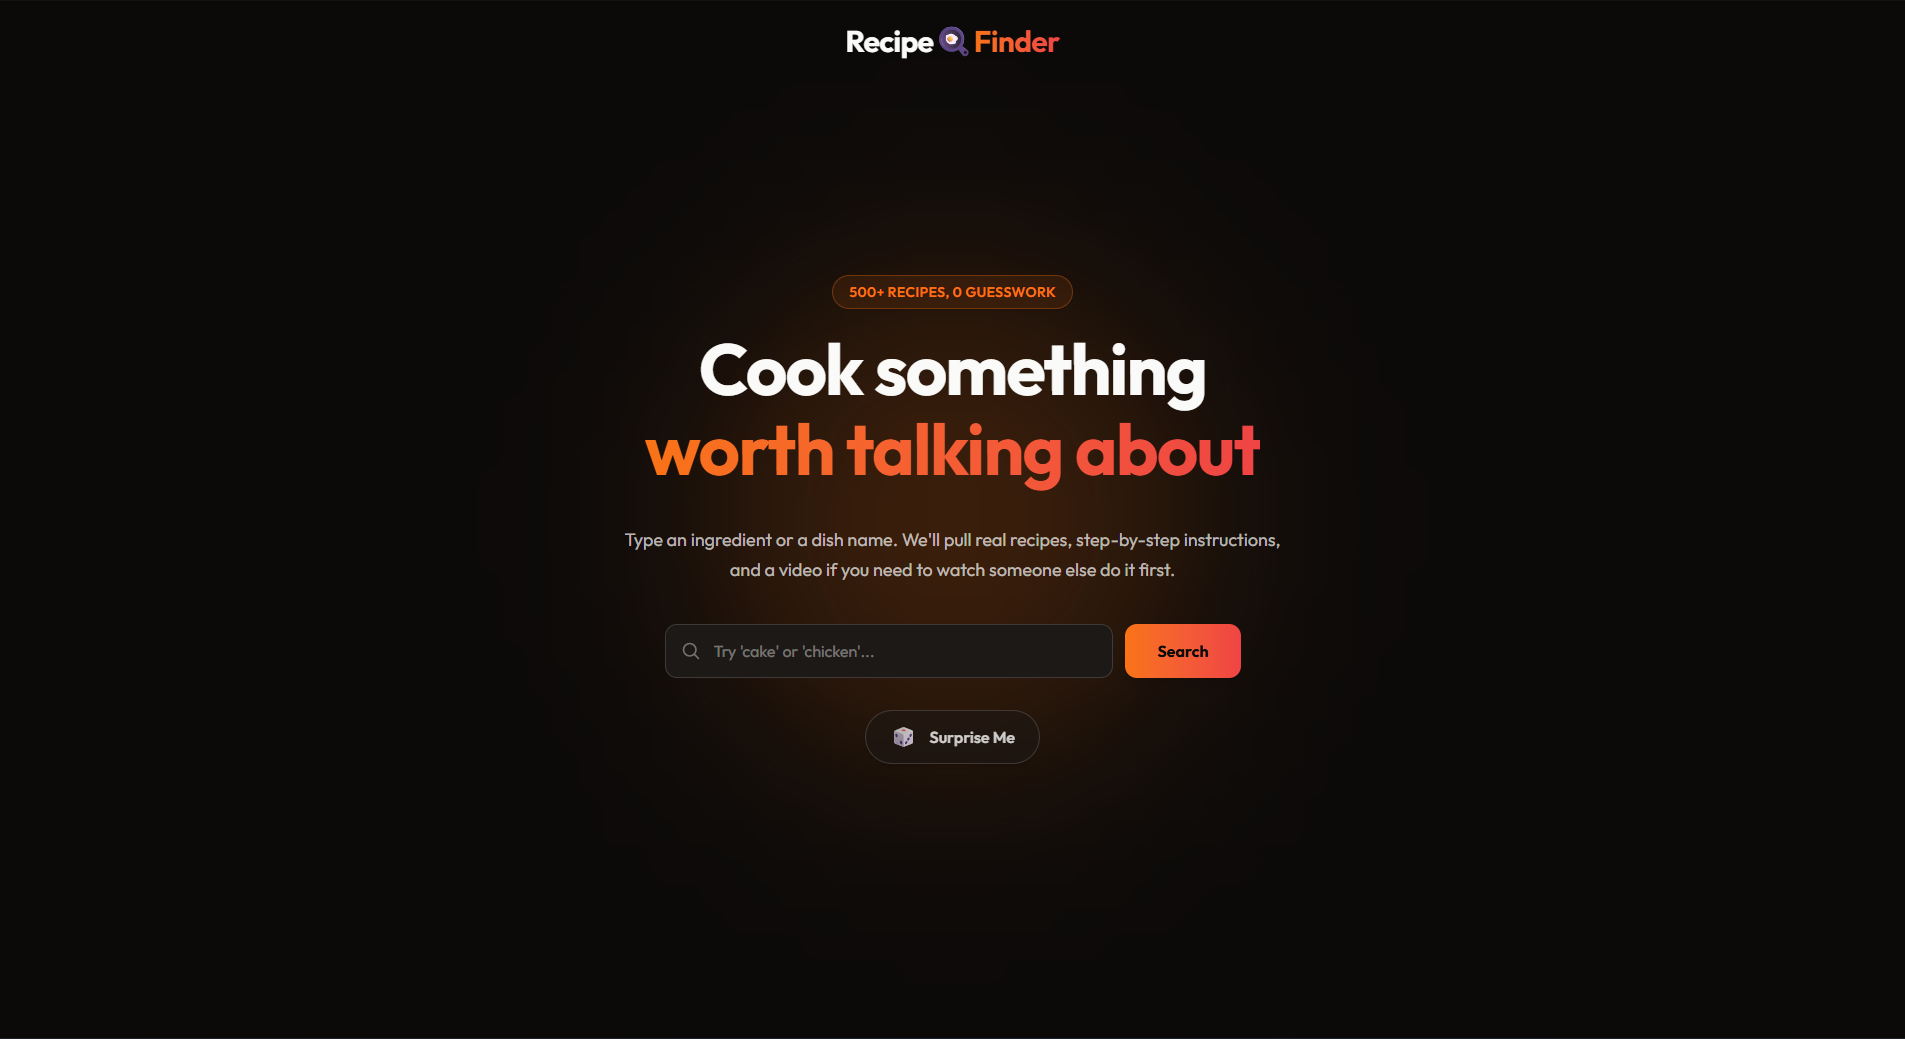
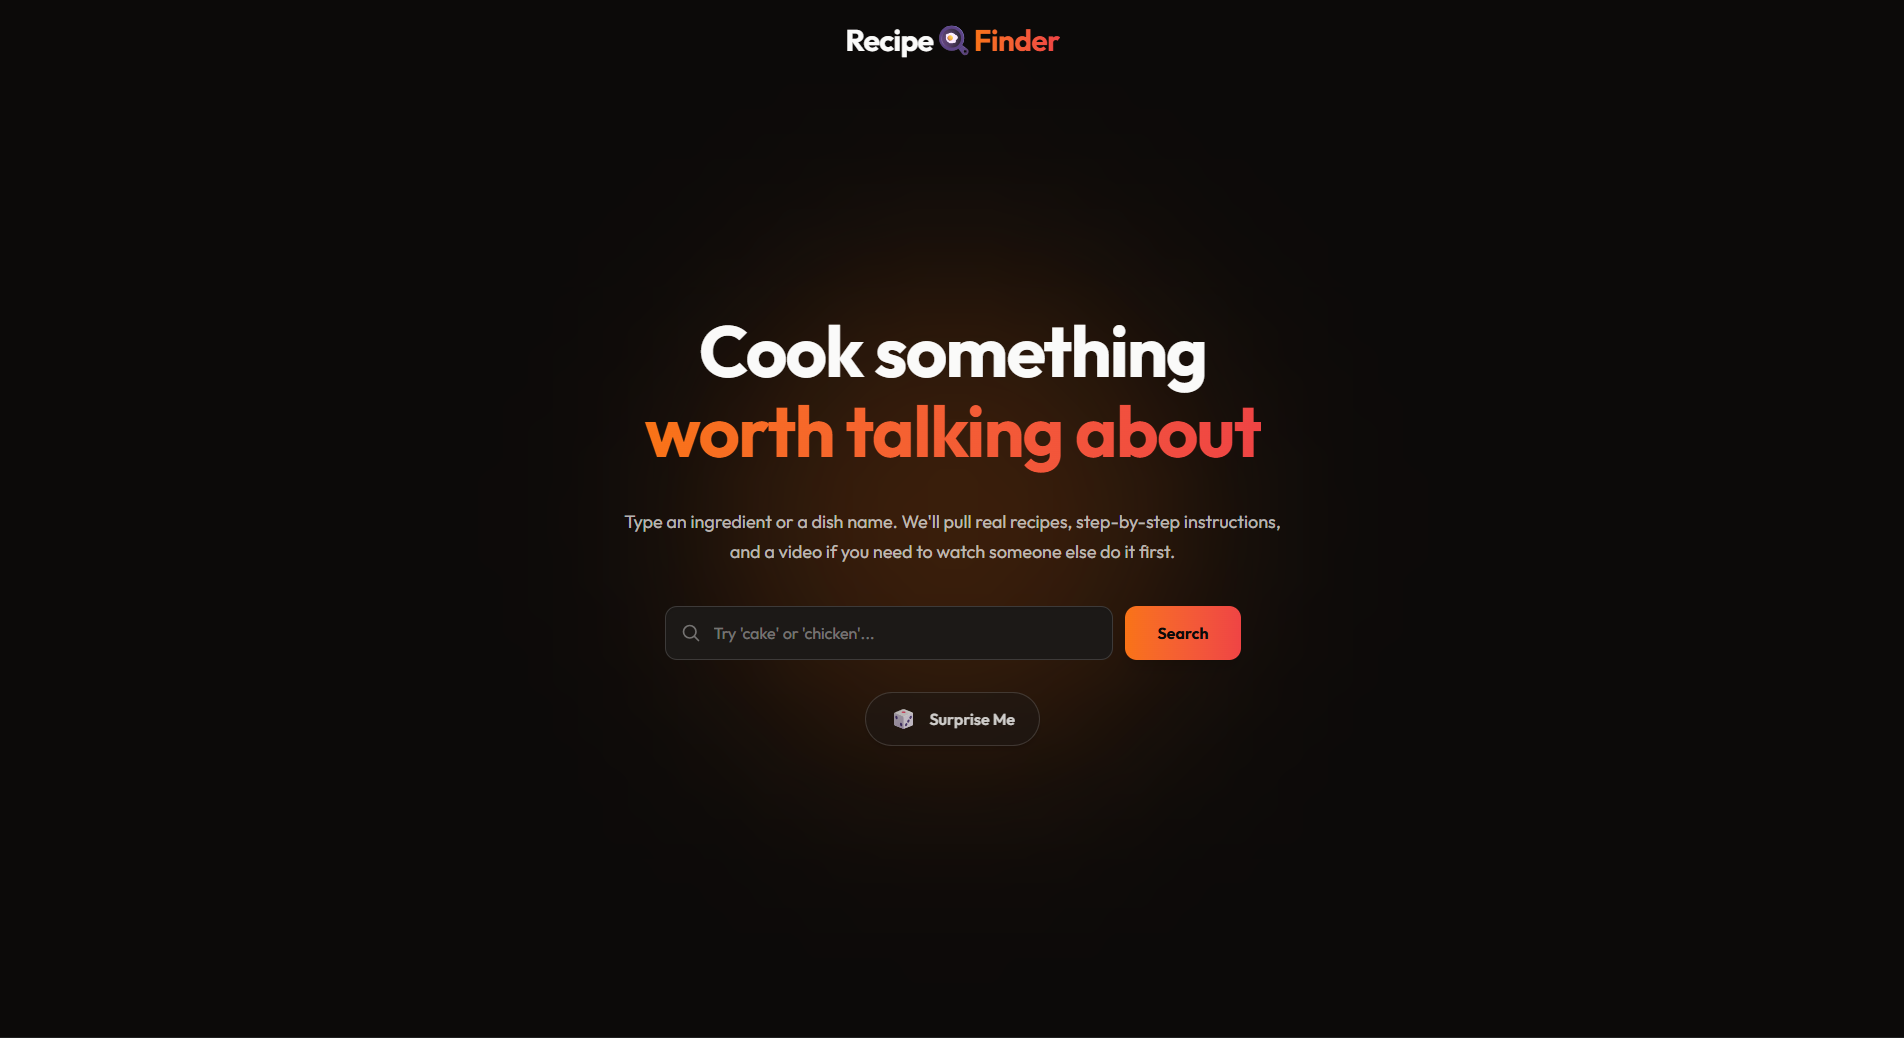
feat(projects): update project assets and refine live link labels
- Update screenshot and add demo video for Recipe Finder
- Shorten link labels from "Live Demo" to "Live"
- Fix minor JSX self-closing tag formatting in ProjectsPage

diff --git a/src/data/siteContent.js b/src/data/siteContent.js
@@ -139,7 +139,7 @@ export const projects = [
     screenshot: "/aicodereviewer.png",
     links: [
       {
-        label: "Live Demo",
+        label: "Live",
         href: "https://ai-code-reviewer-ecru-xi.vercel.app/",
       },
       {
@@ -157,9 +157,10 @@ export const projects = [
     tags: ["React.js", "Tailwind CSS"],
     spotlight: "Live",
     screenshot: "/recipefinder.png",
+    video: "/public/recipefinder-demovideo.mp4",
     links: [
       {
-        label: "Live Demo",
+        label: "Live",
         href: "https://recipe-finder-seven-opal.vercel.app/",
       },
       {

diff --git a/src/pages/ProjectsPage.jsx b/src/pages/ProjectsPage.jsx
@@ -130,7 +130,7 @@ export function ProjectsPage() {
             </h3>
             <p className="mx-auto text-xs sm:text-sm text-(--text-secondary) leading-relaxed mb-6">
               Whether it's an MVP from scratch, a new feature rollout, or
-              scaling your stack, <br/> I'm currently open for new project
+              scaling your stack, <br /> I'm currently open for new project
               collaborations.
             </p>
             <Button
